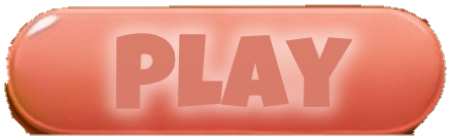
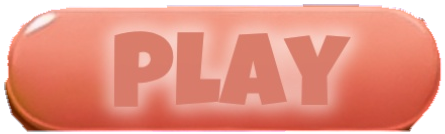
08-page-accueil.md: refine PLAY/SE CONNECTER button cutout
Two leftover defects from the first crop, both visible on close zoom:
a muddy edge fringe from not eroding past the color-contaminated boundary
band before feathering, and a jagged notch on se connecter's top-right
corner from a scrap of the bush's cast shadow that no color threshold
could fully exclude. Fixed by eroding deeper and unmixing the background
color out of the remaining feather band, and by smoothing the silhouette
via a blurred signed-distance re-threshold -- a stadium-shaped button has
no genuine jagged detail, so any leftover notch after color thresholding
is by definition an artifact, not real content.

Claude-Session: https://claude.ai/code/session_01QJhmBXxG8bP3KG6H3AZ1rh

diff --git a/mobile/README.md b/mobile/README.md
@@ -400,7 +400,18 @@ What *doesn't* depend on that missing asset is done:
   shadow on the path was similarly close enough in hue to bridge in as a
   stray blob. Both are saved with the ambient path shadow deliberately
   excluded, since a reusable UI sprite shouldn't carry a shadow baked in
-  from one specific background.
+  from one specific background. A follow-up pass fixed two remaining
+  issues: a muddy fringe along the edges (the crop wasn't eroding past the
+  contaminated boundary band, so edge pixels still carried a mix of button
+  and background color baked in -- fixed by eroding deeper and unmixing
+  the background color out of the remaining feather band, same as the
+  earlier game-element sprites) and a jagged notch on "se connecter"'s
+  top-right corner (a scrap of the bush's cast shadow close enough in hue
+  to survive every color threshold tried -- fixed by smoothing the
+  silhouette's boundary via a blurred signed-distance re-threshold, since
+  a stadium-shaped button has no real jagged detail to preserve, so any
+  small notch or spike left after color thresholding is by definition an
+  artifact).
 - `lib/widgets/home_action_buttons.dart` — `PlayButton` and `SignInButton`,
   each just the cropped art wrapped in `SpringButton` for the required
   press/spring feedback. `onPressed` is left to the caller (load local
